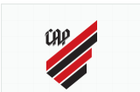
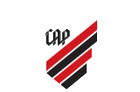
Escudos: fundo branco removido de verdade (flood-fill preservando branco interno do desenho), maiores, e o do Vasco sempre um pouco maior que o do adversário
Jogo em Destaque e Ranking da Rodada: reestrutura seguindo a referência visual — informação (competição/data/local) empilhada à direita em maiúsculo, cronômetro menor com 'Fecha 5 min antes' na mesma linha, título 'Ranking da Rodada' fora da caixa com borda (igual 'Jogo em Destaque' já fazia), badge de transmissão como pilula

Calendário: seção 'Jogos' agora recolhida por padrão (só título + toque pra expandir); removidos os textos 'O jogo mais recente que a galera já palpitou' e 'Assim que um jogo termina, ele sai daqui'

diff --git a/index.html b/index.html
@@ -3675,14 +3675,15 @@ function htmlRodadaBox(){
   if(usarRodada){
     const aoVivo=statusJogo(rj)==='andamento';
     const tabela=tabelaRodada(rj);
-    let html='<div class="rodada-box"><h3 style="margin-bottom:2px"><span>Ranking da Rodada</span>'+(aoVivo?'<span class="vivo">● AO VIVO</span>':'')+'</h3>'+
-      '<div onclick="abrirJogoNaAvaliacao(\''+rid+'\')" style="cursor:pointer;margin-bottom:8px">'+
-      '<div style="margin-top:4px;display:flex;align-items:flex-start;justify-content:space-between;gap:8px;flex-wrap:wrap">'+
-        nomeJogoComEscudos(rj,24,'1em')+
-        '<b style="font-size:.74rem;color:var(--branco);white-space:nowrap;margin-top:3px">'+fmtData(rj)+(rj.hora?'h':'')+'</b>'+
+    let html='<div class="selo-destaque" style="display:flex;justify-content:space-between;align-items:center;gap:10px;flex-wrap:wrap;margin-bottom:2px">'+
+      '<span>Ranking da Rodada</span>'+(aoVivo?'<span class="vivo">● AO VIVO</span>':'')+
       '</div>'+
-      '<div class="info-linha" style="font-size:.78rem;margin-top:4px"><b style="color:var(--branco)">'+esc(rj.competicao)+(rj.fase?' ('+esc(rj.fase)+')':'')+'</b> · '+(rj.local==='fora'?'Fora de casa':'São Januário')+'</div>'+
-      '<span style="display:inline-flex;align-items:center;gap:5px;background:var(--branco);color:var(--preto);border-radius:99px;padding:3px 11px;font-size:.68rem;font-weight:800;text-transform:uppercase;letter-spacing:.03em;margin-top:6px"><span style="color:var(--vermelho)">✠</span> Toque para avaliar</span>'+
+      '<div class="rodada-box">'+
+      '<div onclick="abrirJogoNaAvaliacao(\''+rid+'\')" style="cursor:pointer;margin-bottom:8px">'+
+      '<div style="display:flex;align-items:flex-start;justify-content:space-between;gap:10px;flex-wrap:wrap">'+
+        nomeJogoComEscudos(rj,38,'1.15em')+htmlInfoDireitaJogo(rj)+
+      '</div>'+
+      '<span style="display:inline-flex;align-items:center;gap:5px;background:var(--branco);color:var(--preto);border-radius:99px;padding:3px 11px;font-size:.68rem;font-weight:800;text-transform:uppercase;letter-spacing:.03em;margin-top:8px"><span style="color:var(--vermelho)">✠</span> Toque para avaliar</span>'+
       '</div>';
     if(rj.resultado&&rj.palpites&&rj.palpites[eu]&&!(rj.avaliacoes&&rj.avaliacoes[eu]&&Object.keys(rj.avaliacoes[eu]).length)){
       html+='<button class="jogo-item" style="background:rgba(224,41,59,.1);border-color:var(--vermelho);margin-bottom:10px" onclick="abrirJogoNaAvaliacao(\''+rid+'\')">'+
@@ -3830,18 +3831,15 @@ function renderListaJogos(){
       '<span><span class="cruz">✠</span> Jogo em destaque</span>'+htmlBadgeEscalacao(id,j,true)+
       '</div>'+
       '<div class="dest-grid"><div class="rodada-box">'+
-      '<div style="margin-top:12px;display:flex;align-items:flex-start;justify-content:space-between;gap:8px;flex-wrap:wrap">'+
-        nomeJogoComEscudos(j,24,'1em')+
-        '<b style="font-size:.74rem;color:var(--branco);white-space:nowrap;margin-top:3px">'+fmtData(j)+(j.hora?'h':'')+'</b>'+
+      '<div style="margin-top:12px;display:flex;align-items:flex-start;justify-content:space-between;gap:10px;flex-wrap:wrap">'+
+        nomeJogoComEscudos(j,38,'1.15em')+htmlInfoDireitaJogo(j)+
       '</div>'+
-      '<div class="info-pilha" style="margin-top:6px">'+
-        '<div class="info-linha" style="font-size:.78rem"><b style="color:var(--branco)">'+esc(j.competicao)+(j.fase?' ('+esc(j.fase)+')':'')+'</b> · '+(j.local==='fora'?'Fora de casa':'São Januário')+'</div>'+
-        (j.ondeAssistir?'<div class="info-linha" style="text-transform:none;font-size:.66rem">'+badgeTransmissao(j)+'</div>':'')+
-      '</div>'+
-      (s==='aberto'&&j.hora?'<div class="cronometro" id="cronoDest" data-jogo="'+id+'" data-sem-segundos="1" style="font-size:1.05rem;margin:6px 0">…</div>':'')+
-      (s==='aberto'?'<p style="font-size:.78rem;margin:6px 0 10px;color:var(--branco);font-weight:800">Fecha '+FECHA_PALPITE_MIN+' min antes da bola rolar</p>':'<p style="font-size:.84rem;margin:8px 0 10px;color:var(--branco)">'+chamada+'</p>')+
-      '<div style="display:flex;gap:8px;align-items:center;flex-wrap:wrap"><button class="btn" '+corBtn+' style="padding:7px 14px;font-size:.82rem" onclick="abrirJogo(\''+id+'\')"><span style="color:var(--vermelho)">✠</span> '+rotuloBtn+'</button><span class="selo '+cls+'" style="font-size:.66rem;padding:3px 9px">'+txt+'</span></div>'+
-      '</div>'+htmlRodadaBox()+'</div></div>';
+      (j.ondeAssistir?'<div style="margin-top:8px">'+badgeTransmissao(j)+'</div>':'')+
+      (s==='aberto'&&j.hora?'<div style="display:flex;align-items:center;gap:10px;flex-wrap:wrap;margin:8px 0"><div class="cronometro" id="cronoDest" data-jogo="'+id+'" data-sem-segundos="1" style="font-size:.95rem;margin:0">…</div><span style="font-size:.76rem;color:var(--branco);font-weight:700">Fecha '+FECHA_PALPITE_MIN+' min antes da bola rolar</span></div>':
+        '<p style="font-size:.84rem;margin:8px 0 10px;color:var(--branco)">'+chamada+'</p>')+
+      '<div style="display:flex;gap:8px;align-items:center;flex-wrap:wrap;margin-top:6px"><button class="btn" '+corBtn+' style="padding:7px 14px;font-size:.82rem" onclick="abrirJogo(\''+id+'\')"><span style="color:var(--vermelho)">✠</span> '+rotuloBtn+'</button><span class="selo '+cls+'" style="font-size:.66rem;padding:3px 9px">'+txt+'</span></div>'+
+      '</div></div></div>';
+    html+='<div class="card">'+htmlRodadaBox()+'</div>';
     html+=htmlVasbolaoRanking(5);
     html+='<div class="card">'+htmlCastigoRodadaBox()+'</div>';
   }
@@ -3890,7 +3888,7 @@ function renderDetalhe(){
 
   let html='<button class="btn" onclick="voltarLista()" style="margin-bottom:14px;display:flex;align-items:center;gap:8px;width:auto">← Voltar à Tela Principal</button>'+
   '<div class="card"><div style="display:flex;align-items:flex-start;justify-content:space-between;gap:8px;flex-wrap:wrap">'+
-    nomeJogoComEscudos(j,26,'1.1em')+
+    nomeJogoComEscudos(j,36,'1.15em')+
     '<b style="font-size:.8rem;color:var(--branco);white-space:nowrap;margin-top:4px">'+fmtData(j)+(j.hora?'h':'')+'</b>'+
   '</div>'+
   '<div class="info-linha" style="font-size:.82rem;margin-top:6px"><b style="color:var(--branco)">'+esc(j.competicao)+(j.fase?' ('+esc(j.fase)+')':'')+'</b> · '+(casa?'São Januário':'Fora de casa')+'</div>';
@@ -4447,6 +4445,8 @@ async function salvarDataHora(){
 /* =================== ABA JOGOS E CALENDÁRIO CRVG =================== */
 let filtroCalendarioComp='todas';
 let mostrarTodosEncerrados=false;
+let mostrarJogosRecentes=false;
+function toggleJogosRecentes(){ mostrarJogosRecentes=!mostrarJogosRecentes; renderPartidas(); }
 function fmtDataCal(j){
   const d=new Date(j.data+'T12:00:00');
   return cap(d.toLocaleDateString('pt-BR',{weekday:'short',day:'2-digit',month:'short'}));
@@ -4500,13 +4500,15 @@ function renderPartidas(){
   const encerrados=lista.filter(([i,j])=>j.resultado).reverse();
   const futuros=lista.filter(([i,j])=>!j.resultado);
 
-  // --- Jogos: só o mais recente encerrado + link pra ver todo o histórico ---
-  html+='<div class="card"><h2>🗂 Jogos</h2><p class="nota-rodape" style="margin:0 0 12px">O jogo mais recente que a galera já palpitou.</p>';
+  // --- Jogos: só o mais recente encerrado + link pra ver todo o histórico — card recolhido por padrão ---
+  html+='<div class="card"><div style="cursor:pointer" onclick="toggleJogosRecentes()"><h2 style="margin-bottom:2px">🗂 Jogos</h2>'+
+    '<p class="nota-rodape" style="margin:0">'+(mostrarJogosRecentes?'Toque pra recolher':'Toque para expandir')+'</p></div>';
+  if(mostrarJogosRecentes){
   if(!encerrados.length){
     html+='<div class="vazio">Nenhum jogo encerrado ainda.</div>';
   }else{
     const [id0,j0]=encerrados[0];
-    html+='<div class="jogo-item" style="cursor:pointer" onclick="abrirJogo(\''+id0+'\');mudarAbaDetalhe()"><span><span class="jogo-nome" style="font-size:.94rem">'+nomeJogo(j0)+'</span>'+
+    html+='<div class="jogo-item" style="cursor:pointer;margin-top:10px" onclick="abrirJogo(\''+id0+'\');mudarAbaDetalhe()"><span><span class="jogo-nome" style="font-size:.94rem">'+nomeJogo(j0)+'</span>'+
       '<div class="meta" style="font-size:.68rem">'+fmtData(j0)+' · '+esc(j0.competicao)+(j0.fase?' ('+esc(j0.fase)+')':'')+' · '+Object.keys(j0.palpites).length+' palpite(s)</div></span>'+
       '<span style="display:flex;align-items:center;gap:8px"><span class="placar-final" style="font-size:.92rem">'+placarTexto(j0,true)+'</span>'+
       '<button class="btn fantasma" style="font-size:.72rem;padding:7px 12px" onclick="event.stopPropagation();abrirJogo(\''+id0+'\');mudarAbaDetalhe()">abrir</button>'+
@@ -4527,6 +4529,7 @@ function renderPartidas(){
       }
     }
   }
+  }
   html+='</div>';
 
   // --- Calendário: só jogos futuros, filtrável por competição, com imagem compartilhável ---
@@ -4545,7 +4548,6 @@ function renderPartidas(){
     });
   }
   html+='<div class="card"><h2>✠ Calendário</h2>'+
-    '<p class="nota-rodape" style="margin:0 0 10px">Assim que um jogo termina, ele sai daqui — fica só o que vem pela frente.</p>'+
     '<div class="cal-filtros">'+
       '<button class="cal-filtro'+(filtroCalendarioComp==='todas'?' ativa':'')+'" onclick="mudarFiltroCalendario(\'todas\')">Todos</button>'+
       comps.map(c=>'<button class="cal-filtro'+(filtroCalendarioComp===c?' ativa':'')+'" onclick="mudarFiltroCalendario(\''+c.replace(/'/g,"\\'")+'\')">'+esc(c)+'</button>').join('')+
@@ -4630,20 +4632,29 @@ function escudoLocalPara(nomeTime){
 }
 /* "Vasco × Santos" com o escudo de cada time acima do nome, proporcional, respeitando quem é
    mandante/visitante — usado em toda tela que mostra "Vasco x Adversário" */
+function htmlInfoDireitaJogo(j){
+  return '<div style="text-align:right;flex:none">'+
+    '<div style="font-weight:800;font-size:.74rem;text-transform:uppercase;color:var(--branco);letter-spacing:.01em">'+esc(j.competicao)+(j.fase?' ('+esc(j.fase)+')':'')+'</div>'+
+    '<div style="font-size:.68rem;color:var(--cinza);text-transform:uppercase;margin-top:2px">'+fmtData(j)+(j.hora?'h':'')+'</div>'+
+    '<div style="font-size:.68rem;color:var(--cinza);text-transform:uppercase">'+(j.local==='fora'?'Fora de casa':'São Januário')+'</div>'+
+  '</div>';
+}
 function nomeJogoComEscudos(j,tamEscudo,tamFonte){
-  tamEscudo=tamEscudo||24; tamFonte=tamFonte||'1em';
+  tamEscudo=tamEscudo||34; tamFonte=tamFonte||'1em';
+  const tamAdversario=Math.round(tamEscudo*0.78); // Vasco sempre maior que o escudo do adversário
   const casa=j.local!=='fora';
   const nomeCasa=casa?'Vasco':j.adversario, nomeFora=casa?j.adversario:'Vasco';
   const escAdv=escudoLocalPara(j.adversario)||j.escudoAdversario||'';
   const escCasa=casa?ESCUDO_VASCO:escAdv, escFora=casa?escAdv:ESCUDO_VASCO;
+  const tamCasa=casa?tamEscudo:tamAdversario, tamFora=casa?tamAdversario:tamEscudo;
   const pesoCasa=casa?'900':'400', pesoFora=casa?'400':'900';
-  const coluna=(escUrl,nome,peso)=>'<span style="display:inline-flex;flex-direction:column;align-items:center;gap:2px;vertical-align:middle">'+
-    (escUrl?'<img src="'+esc(escUrl)+'" alt="" style="width:'+tamEscudo+'px;height:'+tamEscudo+'px;object-fit:contain" onerror="this.style.display=\'none\'">':'')+
+  const coluna=(escUrl,nome,peso,tam)=>'<span style="display:inline-flex;flex-direction:column;align-items:center;gap:3px;vertical-align:middle">'+
+    (escUrl?'<img src="'+esc(escUrl)+'" alt="" style="width:'+tam+'px;height:'+tam+'px;object-fit:contain" onerror="this.style.display=\'none\'">':'')+
     '<span style="font-weight:'+peso+';font-size:'+tamFonte+'">'+esc(nome)+'</span></span>';
   const r=j.resultado||j.parcial;
   const meio=r?('<span style="font-weight:900;font-size:'+tamFonte+';margin-top:'+(Math.round(tamEscudo*0.32))+'px;white-space:nowrap">'+(casa?r.v:r.a)+' × '+(casa?r.a:r.v)+'</span>')
-              :('<span class="x" style="margin-top:'+(Math.round(tamEscudo*0.35))+'px">×</span>');
-  return '<span style="display:inline-flex;align-items:flex-start;gap:8px">'+coluna(escCasa,nomeCasa,pesoCasa)+meio+coluna(escFora,nomeFora,pesoFora)+'</span>';
+              :('<span class="x" style="margin-top:'+(Math.round(tamEscudo*0.32))+'px">×</span>');
+  return '<span style="display:inline-flex;align-items:flex-start;gap:10px">'+coluna(escCasa,nomeCasa,pesoCasa,tamCasa)+meio+coluna(escFora,nomeFora,pesoFora,tamFora)+'</span>';
 }
 
 async function salvarTransmissao(){
